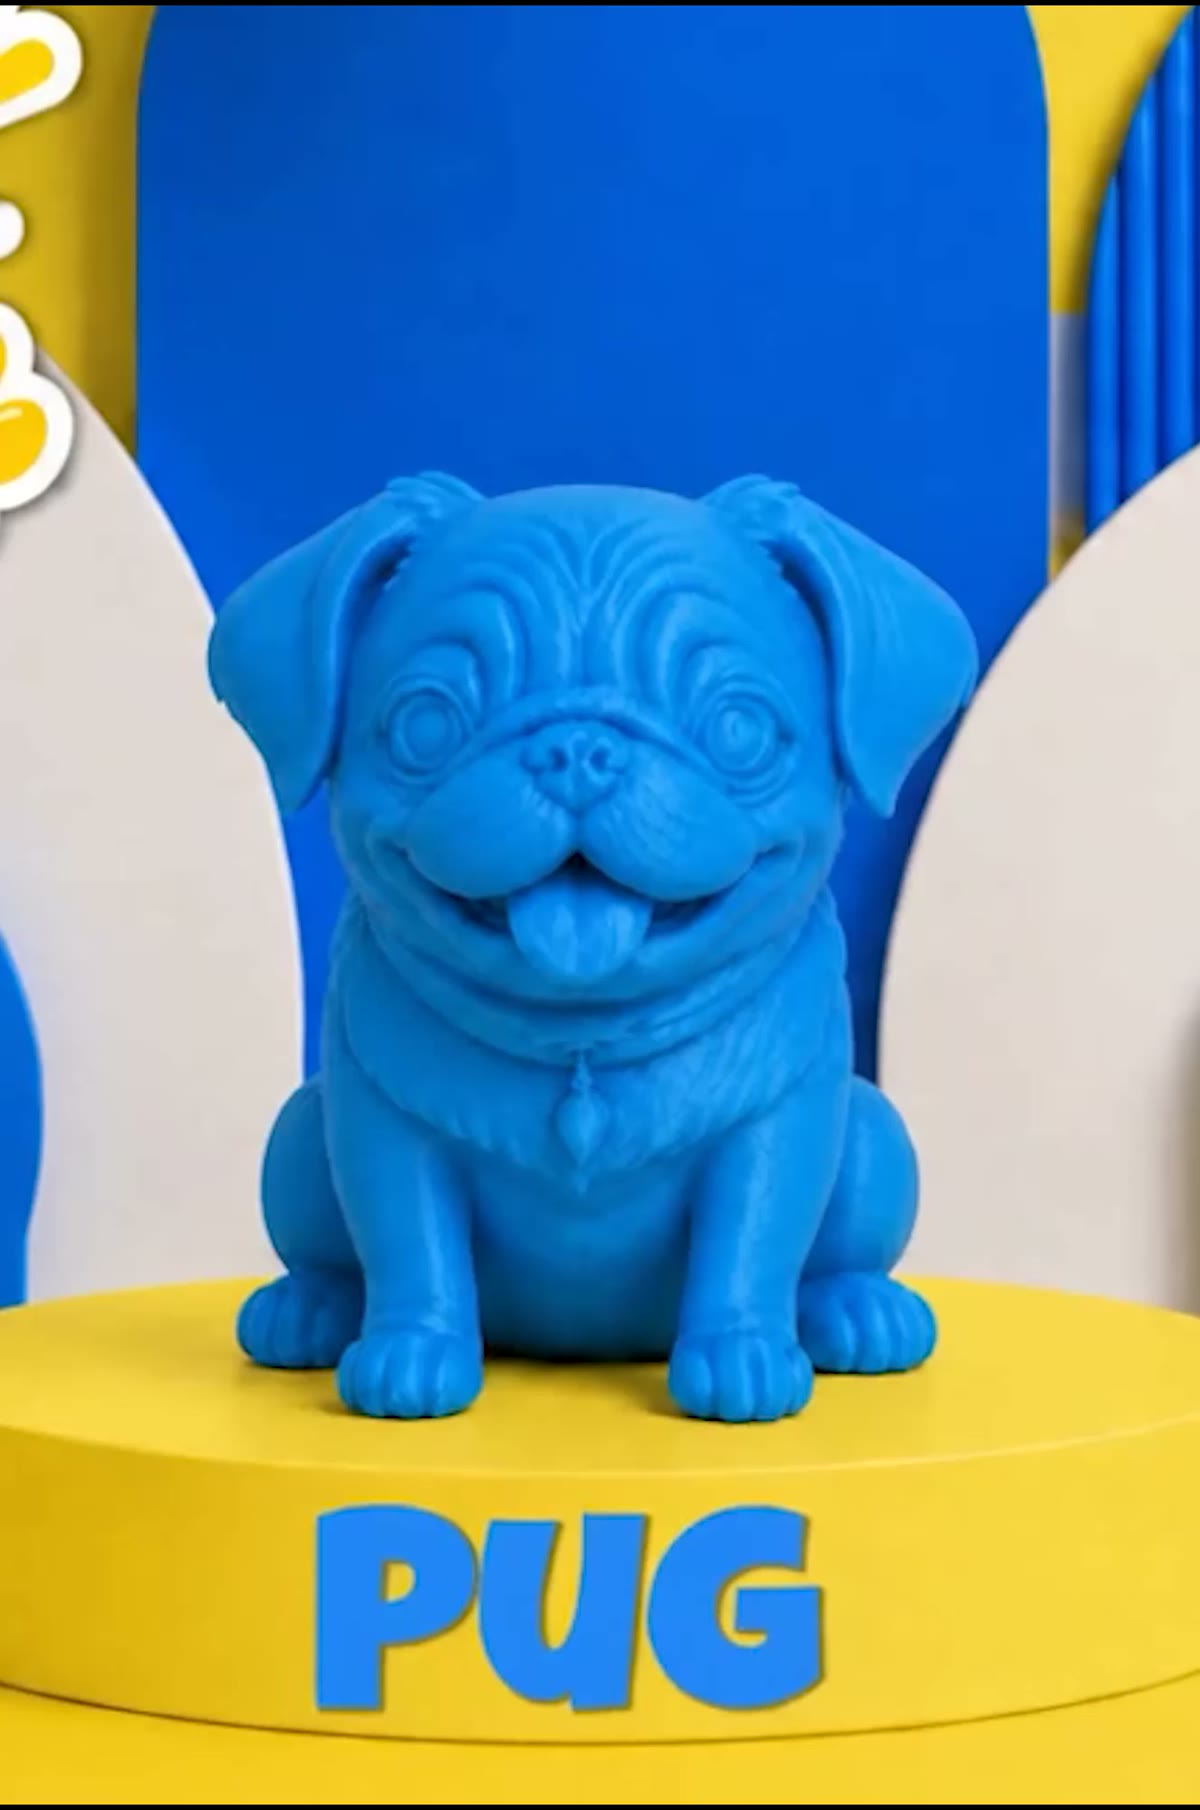
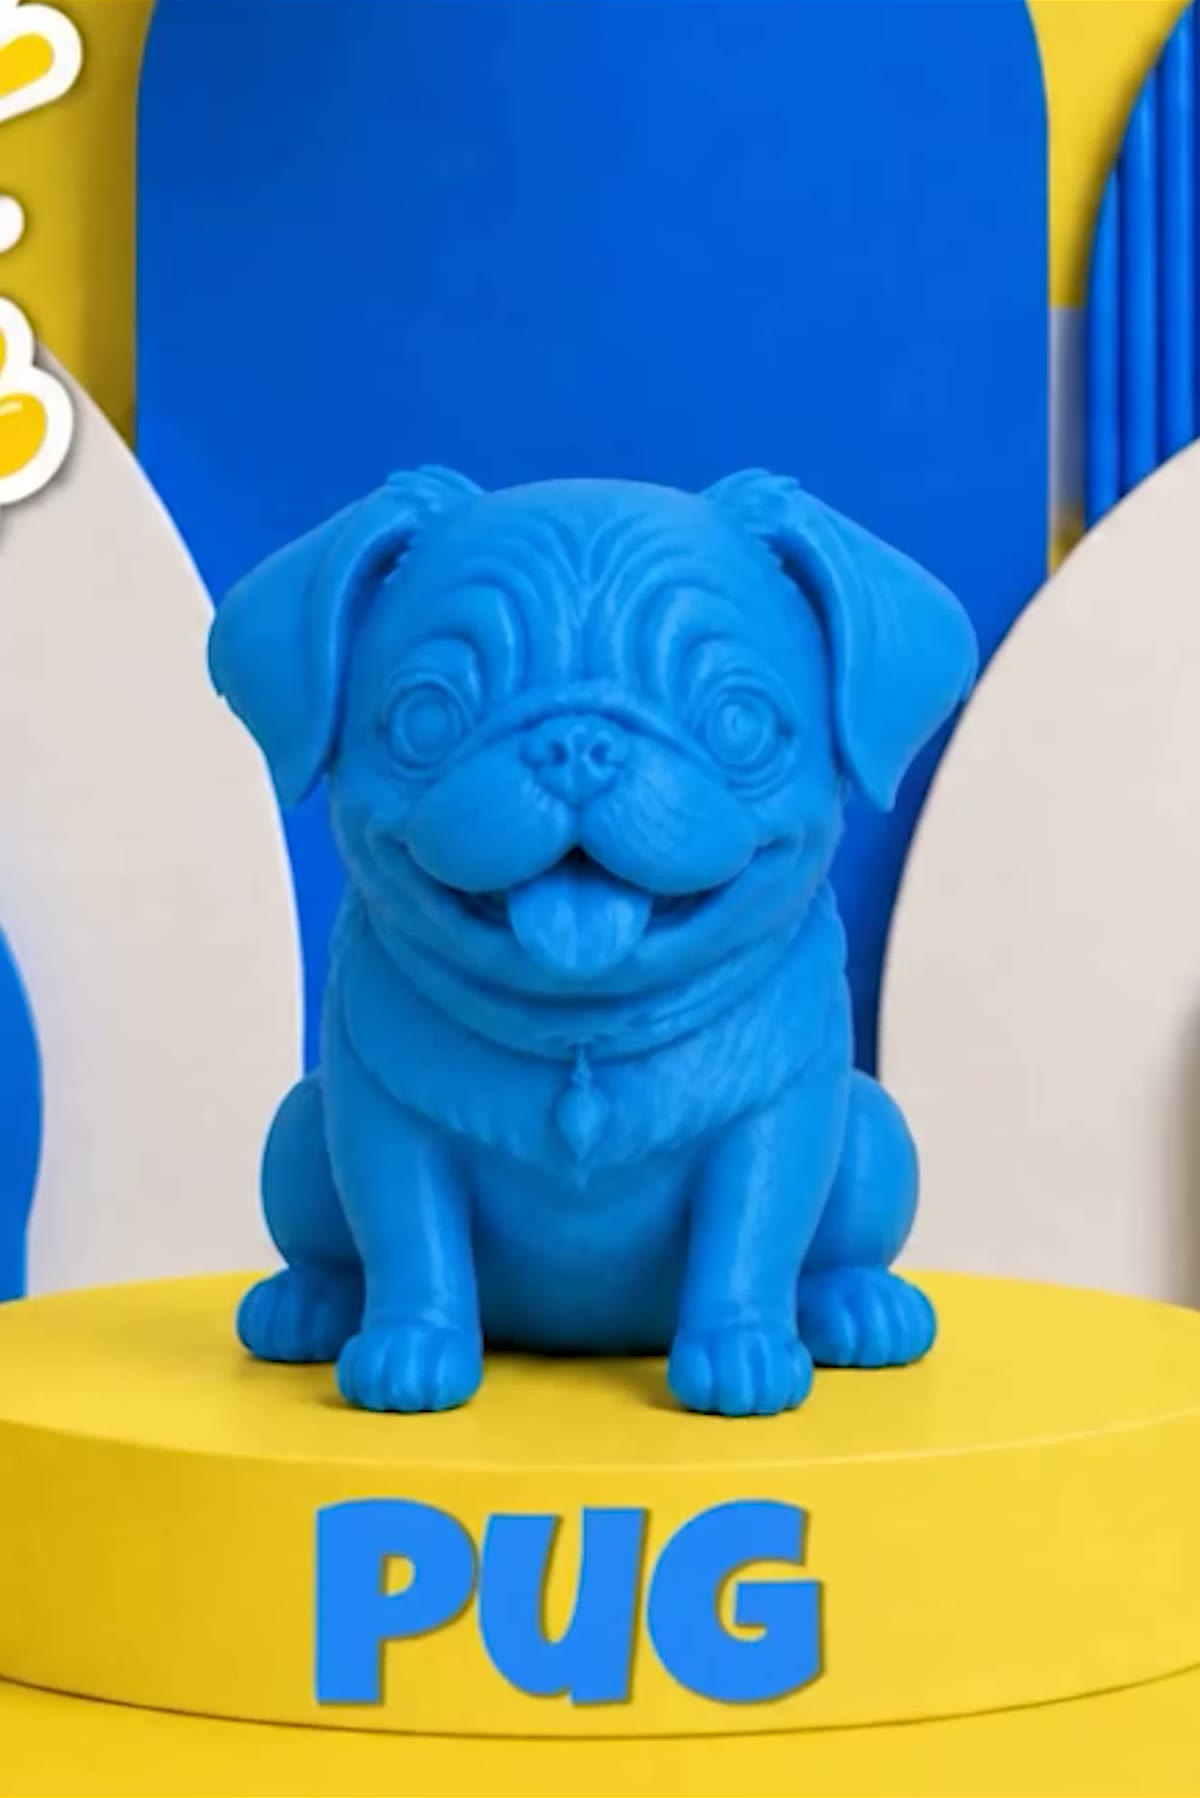
findpug mobile hero: crop poster band at source, tune video crop to 0.4%

diff --git a/components/CompetitionHero/CompetitionHero.module.css b/components/CompetitionHero/CompetitionHero.module.css
@@ -82,18 +82,20 @@
   .posterMobile {
     display: block;
   }
-  /* Hide the black band baked into the top and bottom of the portrait source
-     (measured 27 Aug 2026: video 4px each end of 1086 = 0.37%; poster 6px each of
-     1810 = 0.33%). Crop by PERCENTAGE, not fixed px: the 1086-tall source renders
-     ~700 CSS px on a phone, so a fixed-px crop under-corrects on larger/denser
-     screens (the old 4px cleared the band only below ~714px wide). 0.5% each end
-     clears the larger (video) band with a small margin, applied to both the video
-     and the poster via .media. Grow the media 1% and shift up 0.5% so the frame's
-     overflow:hidden clips 0.5% off each end while it stays filled. */
+  /* Crop the black band off the top and bottom of the portrait VIDEO only. The
+     poster's own band is removed at source (portrait-advert.jpg is exported band-
+     free at 1200x1798), and this crop cannot reach the poster anyway: Next's
+     <Image fill> sets inline position/height that override this class, so only the
+     plain <video> is cropped. Band measured 27 Aug 2026: 4px each end of 1086 =
+     0.37%. Crop by PERCENTAGE, not fixed px (the 1086-tall source renders ~700 CSS
+     px on a phone, so fixed px under-corrects on larger screens). 0.4% each end
+     clears the 0.37% band with a hair of margin and lands the video's framing on
+     the band-free poster's, so the 3s poster->video swap does not jump. Grow the
+     media 0.8% and shift up 0.4% so overflow:hidden clips 0.4% off each end. */
   .media {
-    top: -0.5%;
+    top: -0.4%;
     bottom: auto;
-    height: 101%;
+    height: 100.8%;
   }
 }
 
